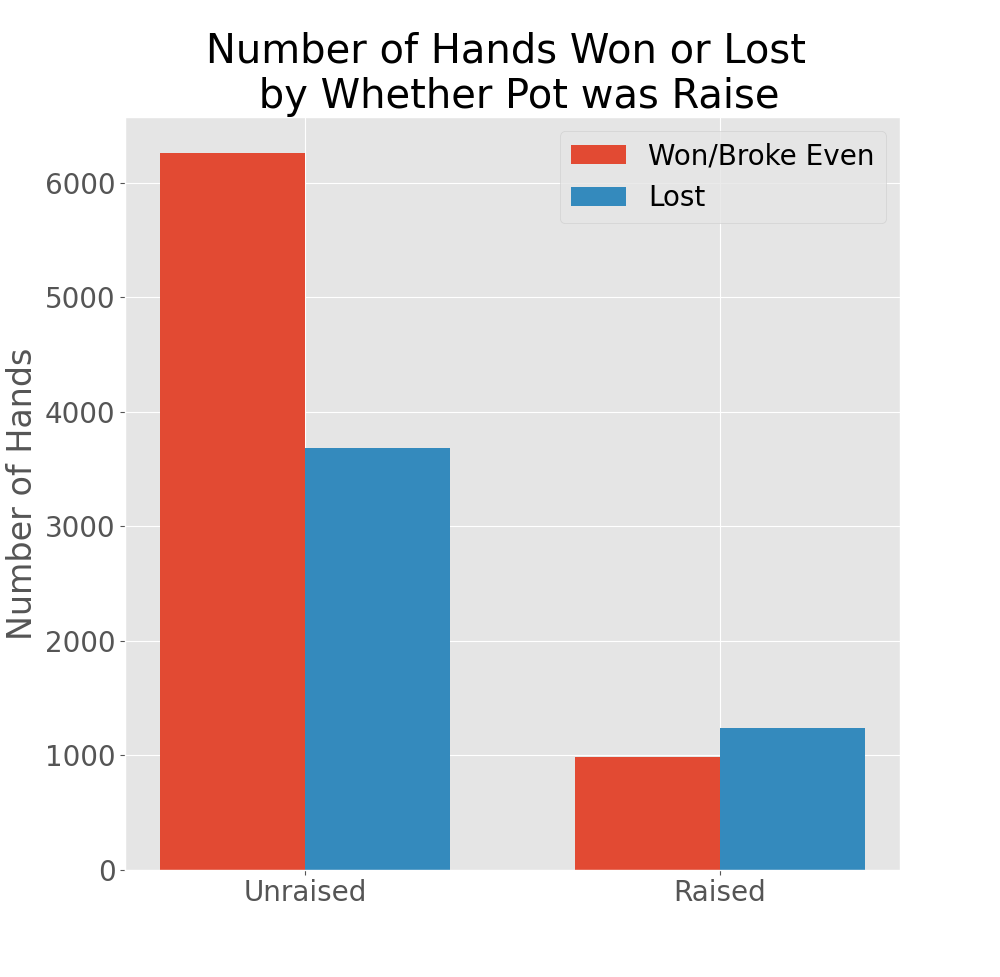
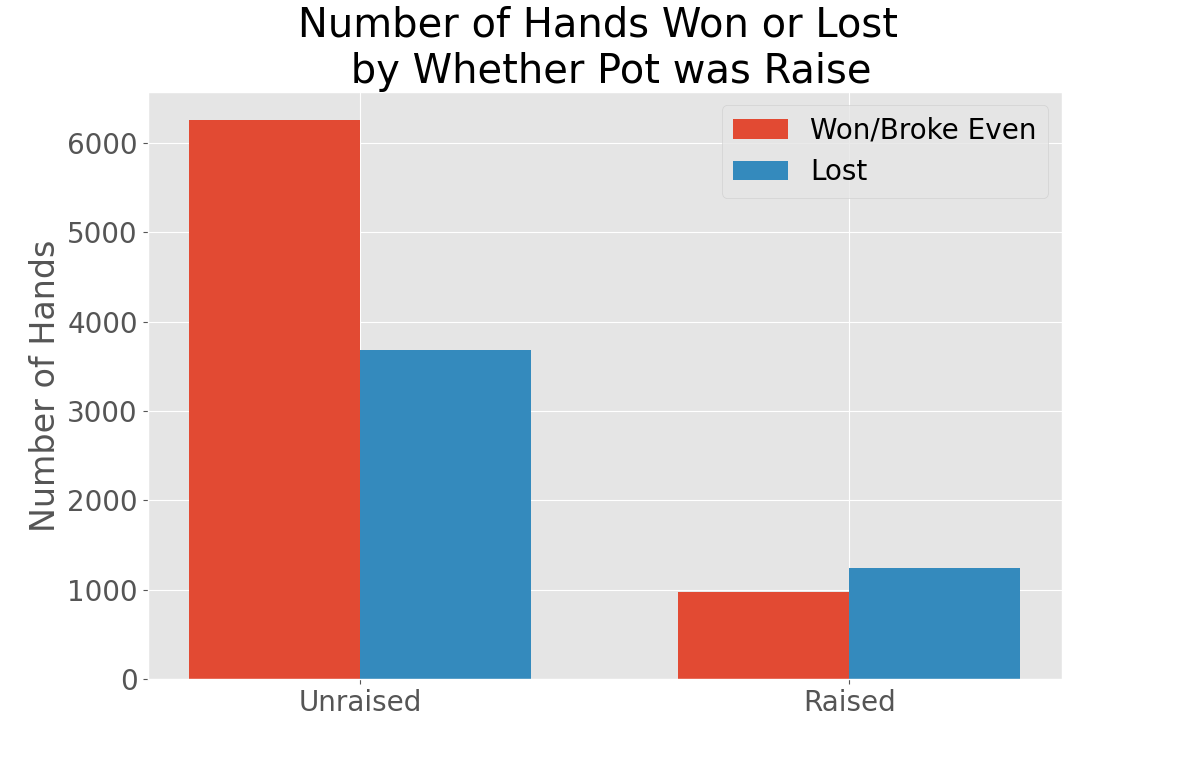
raises sizing

diff --git a/src/visuals/raises.py b/src/visuals/raises.py
@@ -18,7 +18,7 @@ def plot_raises():
     won['raises&reraises'] = won['raises&reraises'].apply(lambda x: change_raise(x))
     lost['raises&reraises'] = lost['raises&reraises'].apply(lambda x: change_raise(x))
 
-    fig, ax = plt.subplots(figsize=(10,10))
+    fig, ax = plt.subplots(figsize=(8,8))
     width = 0.35
     labels = ['Unraised', 'Raised']
     x = np.arange(len(labels))
